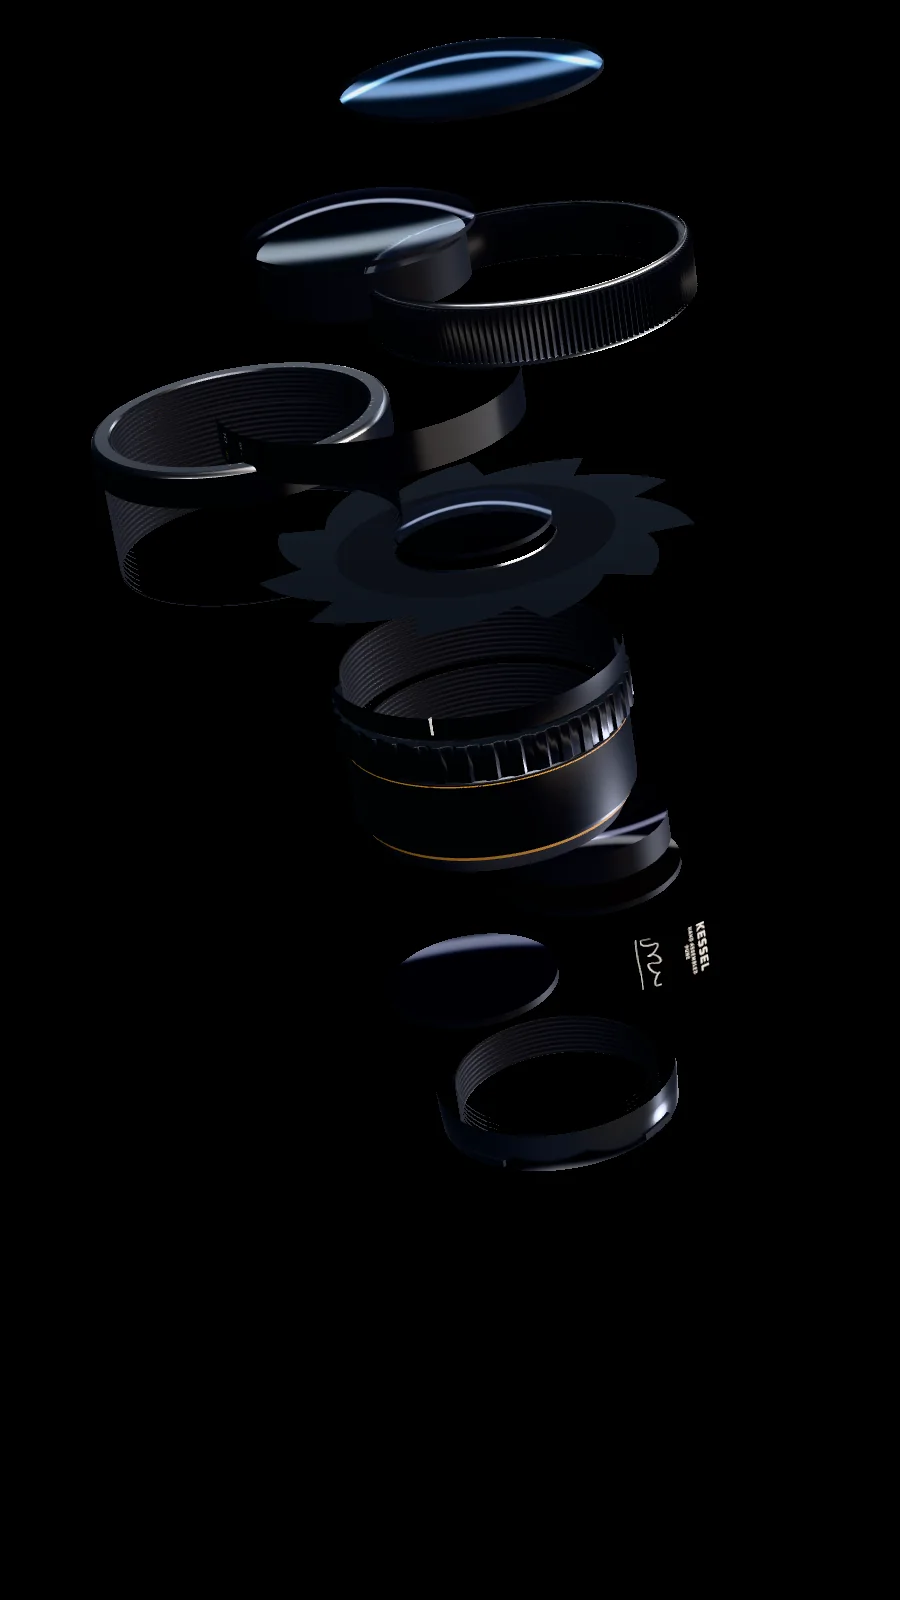
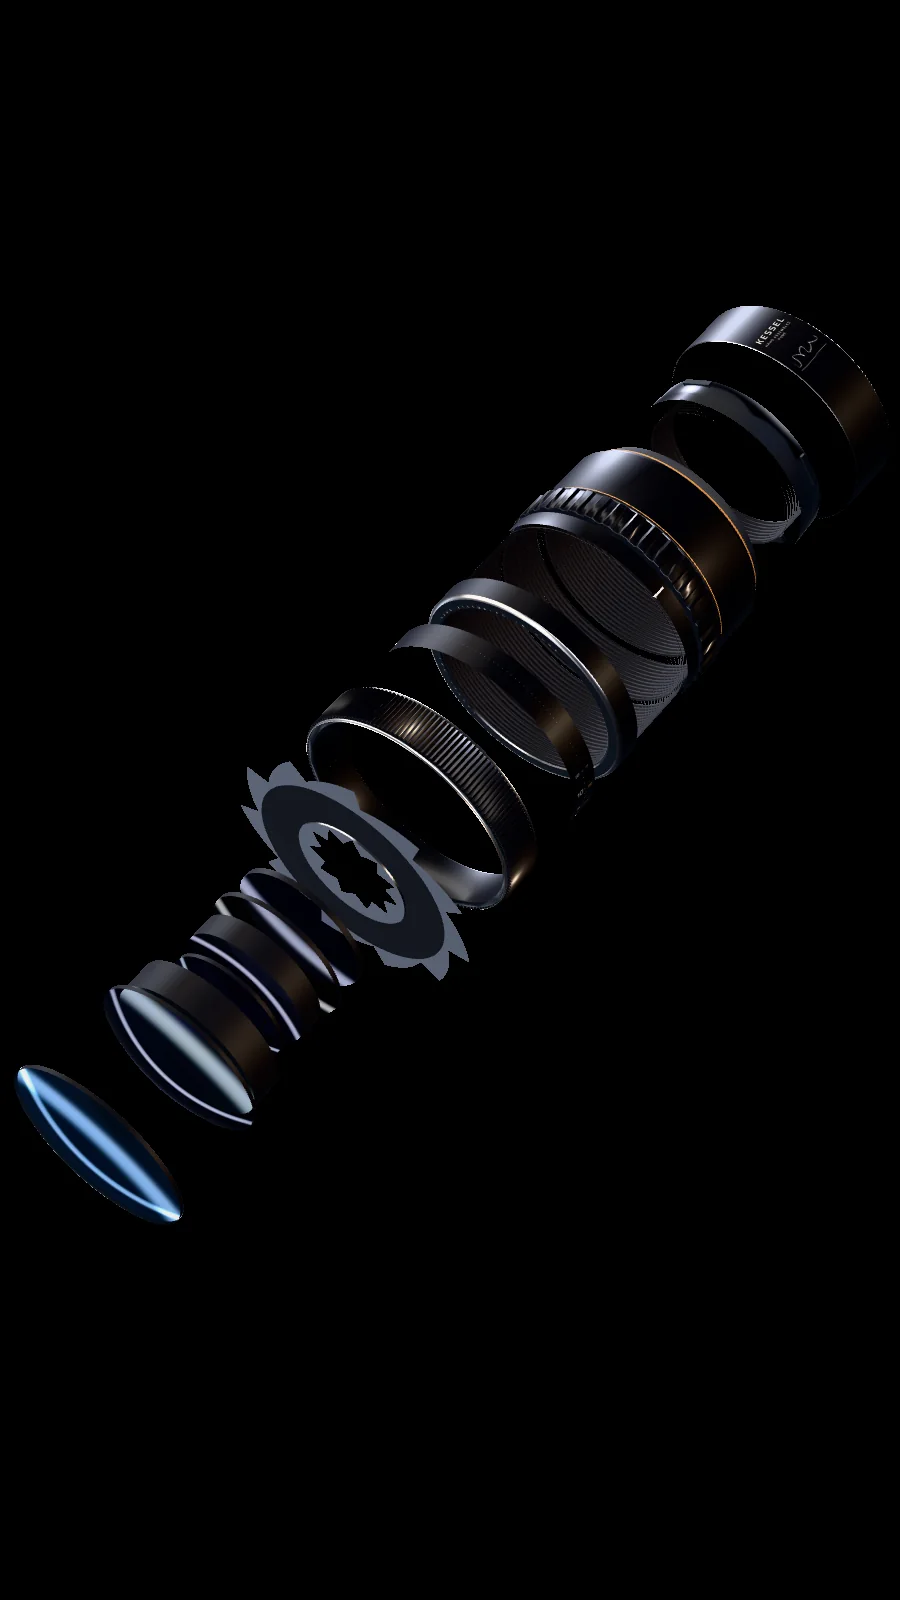
Teardown: light the picked part before the camera flies in; phone framing, Back on the caption line; stills in the new line layout
Claude-Session: https://claude.ai/code/session_01GhGriCV64BjTi2u5UktPef

diff --git a/kessel/src/app/live.js b/kessel/src/app/live.js
@@ -164,7 +164,9 @@ export async function bootLive(L, { caps, font, report, mount3D, mount2D }) {
   const tdSection = $('#teardown');
   // Selection (tap a part or its name on the rail): the camera flies to a
   // close-up blended over the scroll camera by td.f (0..1).
-  const td = { sel: null, f: 0, tween: null, y0: 0, hover: null, hoverAt: null, railKey: '', capKey: '' };
+  // td.e (0..1) is the picked part's emphasis, which comes up first; td.f
+  // follows a moment later and carries the camera in.
+  const td = { sel: null, e: 0, f: 0, tween: null, y0: 0, hover: null, hoverAt: null, railKey: '', capKey: '' };
 
   // ------------------------------------------------------------ the loop
   let sCur = 0, last = performance.now(), lastSig = '', resized = 0;
@@ -207,7 +209,7 @@ export async function bootLive(L, { caps, font, report, mount3D, mount2D }) {
     // its own, so a still page costs no GPU time at all: kinder to phone
     // batteries and to slow GPUs that would otherwise queue frames.
     const sig = sCur.toFixed(4) + ',' + pointer.x.toFixed(3) + ',' + pointer.y.toFixed(3) + ',' + pointer.spin.toFixed(3) + ',' + resized +
-      ',' + S.hl + ',' + S.dim.toFixed(3) + ',' + td.f.toFixed(4);
+      ',' + S.hl + ',' + S.dim.toFixed(3) + ',' + td.f.toFixed(4) + ',' + td.e.toFixed(3);
     const changed = sig !== lastSig;
     lastSig = sig;
     window.__kessel && (window.__kessel.idle = !changed && !td.tween);
@@ -297,7 +299,7 @@ export async function bootLive(L, { caps, font, report, mount3D, mount2D }) {
     }
     if (td.sel) {
       hl = td.sel;
-      dim = Math.max(dim * (1 - td.f), 0.8 * td.f);
+      dim = Math.max(dim * (1 - td.e), 0.8 * td.e);
       const k = ease(td.f), c = TEAR_CLOSE[td.sel], n = narrowMQ.matches;
       partCentre(td.sel, S.tear, S.tspread || 1, cen);
       for (const key of CAM_KEYS) camBase[key] = S[key];
@@ -336,7 +338,7 @@ export async function bootLive(L, { caps, font, report, mount3D, mount2D }) {
     return hi;
   }
 
-  function select(id) {
+  function select(id, { hold = false } = {}) {
     if (!id) return;
     if (td.sel === id) { deselect(); return; }
     if (!isApart()) {
@@ -351,7 +353,12 @@ export async function bootLive(L, { caps, font, report, mount3D, mount2D }) {
     td.y0 = window.scrollY;
     try { history[had ? 'replaceState' : 'pushState']({ kTd: id }, ''); } catch { /* sandboxed */ }
     td.tween && td.tween.kill();
-    td.tween = gsap.to(td, { f: 1, duration: had ? 0.6 : 0.9, ease: 'power2.inOut', onComplete: () => { td.tween = null; } });
+    // First the part lights up and the others dim, then the camera flies
+    // in, so the visitor sees what they picked before the view moves.
+    // (hold: stop after the first step; a test hook.)
+    td.tween = gsap.timeline({ onComplete: () => { td.tween = null; } })
+      .to(td, { e: 1, duration: 0.3, ease: 'power1.out' }, 0);
+    if (!hold) td.tween.to(td, { f: 1, duration: had ? 0.6 : 0.9, ease: 'power2.inOut' }, had ? 0 : 0.3);
     root.classList.add('td-picked');
     td.capKey = '';
   }
@@ -367,7 +374,7 @@ export async function bootLive(L, { caps, font, report, mount3D, mount2D }) {
     td.leaving = true;
     td.tween && td.tween.kill();
     root.classList.remove('td-picked');
-    td.tween = gsap.to(td, { f: 0, duration: 0.7, ease: 'power2.inOut', onComplete: () => { td.sel = null; td.leaving = false; td.tween = null; td.capKey = ''; } });
+    td.tween = gsap.to(td, { f: 0, e: 0, duration: 0.7, ease: 'power2.inOut', onComplete: () => { td.sel = null; td.leaving = false; td.tween = null; td.capKey = ''; } });
     td.capKey = '';
   }
   addEventListener('popstate', () => { if (td.sel) deselect(true); });
@@ -397,7 +404,10 @@ export async function bootLive(L, { caps, font, report, mount3D, mount2D }) {
     const s = sCur;
     const cap = capAt(s);
     const sel = td.sel && !td.leaving ? td.sel : null;
-    const state = sel ? 'sel:' + sel : s < 18.55 ? (s > 16.9 ? 'intro' : '') : s < 23.55 ? 'cap:' + (cap ? cap.id : '') : s < STORY_END + 0.01 ? 'outro' : '';
+    // The caption becomes a card beside the part once the camera is on its
+    // way in; until then it is the part's usual caption.
+    const close = !!sel && td.f > 0.4;
+    const state = sel ? (close ? 'sel:' : 'cap:') + sel : s < 18.55 ? (s > 16.9 ? 'intro' : '') : s < 23.55 ? 'cap:' + (cap ? cap.id : '') : s < STORY_END + 0.01 ? 'outro' : '';
     if (state !== tdState) {
       tdState = state;
       tdIntro && tdIntro.classList.toggle('is-on', state === 'intro');
@@ -408,6 +418,7 @@ export async function bootLive(L, { caps, font, report, mount3D, mount2D }) {
         el.classList.toggle('is-selected', state === 'sel:' + id);
       }
       if (sel) tdCaps.get(sel)?.appendChild(back); else back.remove();
+      td.capKey = '';
     }
     const narrow = narrowMQ.matches;
     // The rail: shown through the teardown; the part being explained or
@@ -437,7 +448,7 @@ export async function bootLive(L, { caps, font, report, mount3D, mount2D }) {
     // Open caption beside the part on wide screens: the close-up puts the
     // part's centre at a known place, left of centre, so the card goes to
     // its right, clear of the rail.
-    if (sel && !narrow) {
+    if (close && !narrow) {
       const el = tdCaps.get(sel), W = innerWidth, H = innerHeight;
       const cx = W / 2 - 0.17 * W, rpx = (Math.min(W, H) / 2) / 1.3;
       const railL = rail.getBoundingClientRect().left || W;
@@ -457,8 +468,11 @@ export async function bootLive(L, { caps, font, report, mount3D, mount2D }) {
     const rightEdge = !narrow && railOn ? rail.getBoundingClientRect().left - 12 : innerWidth - 8;
     for (const t of tdTags) {
       const featured = sel ? t.id === sel : !!cap && cap.id === t.id;
-      const want = apart && (sel ? featured && td.f > 0.85 : featured || !narrow);
-      const below = !sel && !narrow && RAIL.indexOf(t.id) % 2 === 1;
+      // In the close-up only the open part's label, straight above it;
+      // while the camera flies, none.
+      const inClose = !!sel && td.f > 0.85, flying = !!sel && td.f > 0.05 && !inClose;
+      const want = apart && !flying && (sel ? featured : featured || !narrow);
+      const below = !inClose && !narrow && RAIL.indexOf(t.id) % 2 === 1;
       const p = want ? view.project('td-' + t.id + (below ? '-b' : '')) || view.project('td-' + t.id) : null;
       const show = !!(p && p.visible);
       if (show !== t.on) { t.on = show; t.el.classList.toggle('is-on', show); }
@@ -467,14 +481,14 @@ export async function bootLive(L, { caps, font, report, mount3D, mount2D }) {
       let dx = p.x - (center ? center.x : innerWidth / 2), dy = p.y - (center ? center.y : innerHeight / 2);
       // Close-up: straight up from the part. Wide screens: labels alternate
       // above and below the line, so neighbours never collide.
-      if (sel) { dx = 0.5; dy = -1; } else if (!narrow) { dx = 0.3; dy = below ? 1 : -1; }
+      if (inClose) { dx = 0.5; dy = -1; } else if (!narrow) { dx = 0.3; dy = below ? 1 : -1; }
       const len = Math.hypot(dx, dy) || 1;
       dx /= len; dy /= len;
       const L = narrow ? 30 : 46;
       const ex = dx * L;
       let ey = dy * L - 6;
       // Keep the name below the header and the badge.
-      const top = (narrow ? 132 : 92) - p.y;
+      const top = (narrow ? 112 : 92) - p.y;
       if (ey < top) ey = top;
       const st = t.el.style;
       st.setProperty('--x', p.x.toFixed(1) + 'px');

diff --git a/kessel/src/app/story.js b/kessel/src/app/story.js
@@ -119,7 +119,7 @@ export function buildStory(gsap, S, layout) {
   to(16.5, 17.0, { az: 40, el: 14, frame: v(80, 74), tx: 0, ty: -4, tz: -40, sx: v(0.03, 0), sy: v(0.04, 0.08), iris: 1, focus: 0 }, 'power1.inOut');
   to(16.5, 17.2, { tlight: 1, light: 0 }, 'power1.inOut');   // no iris, no light through it
   to(17.0, 18.7, { tear: 1 }, 'none');
-  to(17.0, 18.7, { az: 58, el: 15, frame: v(172, 150), ty: 0, tz: -58, sx: v(-0.08, 0), sy: v(0.07, 0.12), oroll: v(0, -38) }, 'sine.inOut');
+  to(17.0, 18.7, { az: 58, el: 15, frame: v(172, 146), ty: 0, tz: -58, sx: v(-0.08, 0), sy: v(0.07, 0.05), oroll: v(0, -40) }, 'sine.inOut');
   to(18.7, 23.5, { az: 68, el: 13 }, 'none');
   to(23.5, 24.8, { tear: 0 }, 'none');
   to(23.5, 24.8, { az: 384, el: 8, frame: v(56, 62), tx: 0, ty: 0, tz: -40, sx: v(0.18, 0), sy: v(0, 0.16), oroll: 0, iris: 0.55 }, 'power1.inOut');

diff --git a/kessel/src/styles/td-ui.css b/kessel/src/styles/td-ui.css
@@ -68,3 +68,10 @@
    a part. */
 .live .film .td-tag.is-on .td-tag__text { pointer-events: auto; cursor: pointer; }
 html.td-hover, html.td-hover body { cursor: pointer; }
+
+/* Phones: Back sits on the caption's title line, so the open part's panel
+   stays as short as the others. */
+@media (max-width: 799px), (orientation: portrait) and (max-width: 1100px) {
+  .live .film .td-cap:has(> .td-back) { grid-template-columns: auto minmax(0, 1fr) auto; }
+  .live .film .td-cap > .td-back { grid-column: 3; grid-row: 1; align-self: center; margin: 0; min-height: 36px; padding: 0.3rem 0.7rem; font-size: 0.64rem; }
+}

diff --git a/kessel/src/app/stills.js b/kessel/src/app/stills.js
@@ -46,8 +46,9 @@ const POSES = {
   // One-page site: the hero (the film's first frame) and the teardown.
   'hero-wide': { s: 0 },
   'hero-tall': { s: 0, layout: 'narrow' },
-  'td-apart': { s: 21.1 },
-  'td-apart-tall': { s: 21.1, layout: 'narrow' },
+  // The stills have no rail or caption panel to make room for: centred.
+  'td-apart': { s: 21.1, sx: 0, sy: 0.02 },
+  'td-apart-tall': { s: 21.1, layout: 'narrow', sy: -0.04, frame: 126 },
   'exploded-wide': { s: 16.5, noLeaks: true, spread: 1, az: 66, el: 10, frame: 64, tx: 0, ty: 0, tz: -112, iris: 0.6, focus: 0.3, sx: 0, sy: 0 },
 };
 
